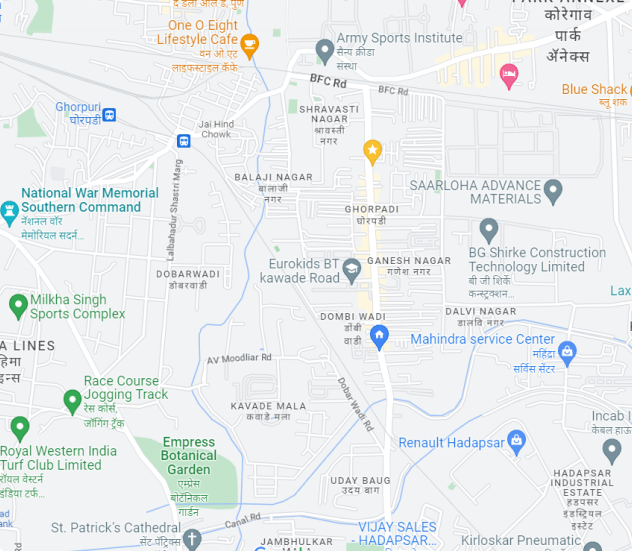
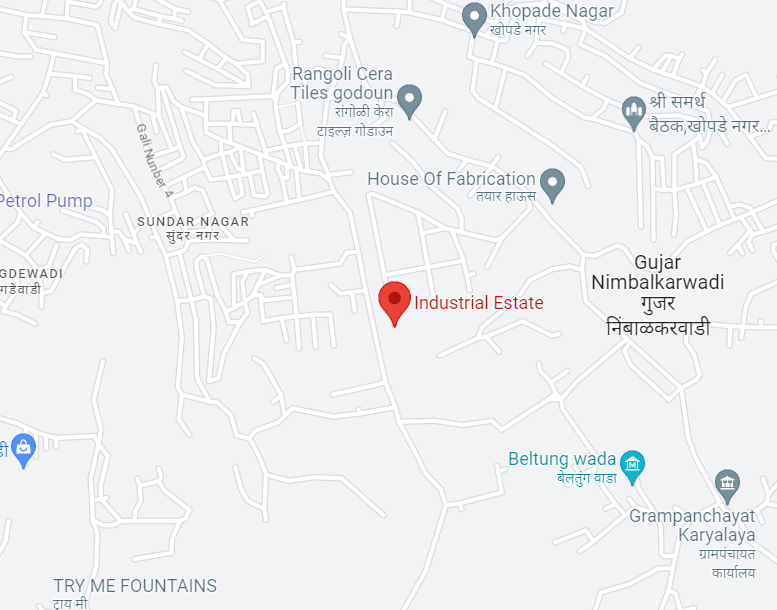
second commit

diff --git a/index.css b/index.css
@@ -1,1 +1,1 @@
-*{box-sizing:border-box;padding:0;margin:0;font-family:"Raleway",sans-serif}.container{width:80%;margin:auto}.contact-btn{padding:12px 30px;border-radius:5px;border:none;outline:none;font-size:16px;background-color:#ffcaa3;font-weight:bold}nav{padding:16px;display:flex;justify-content:space-around;align-items:center;position:fixed;width:100%;z-index:99999}nav .logo{color:#fff;display:flex;align-items:center}nav .logo img{height:36px;margin-right:10px}nav .logo p{font-size:16px;font-weight:bold}nav .nav-links{display:flex;width:40%;justify-content:space-around;align-items:center;list-style:none}nav .nav-links a{color:#fff;text-decoration:none;font-size:16px;font-weight:bold}nav .burger{display:none}nav .burger div{margin:8px 0px;border-radius:5px;width:35px;height:3px;background:#fff}.hero{height:100vh;width:100%;background:url(./assets/hero-bg.png);background-size:cover;background-repeat:no-repeat;background-position:center}.hero .container{color:#fff;padding:10% 0%}.hero .container h1{font-size:72px}.hero .container p{width:50%;line-height:150%;text-align:justify;font-size:14px;margin-bottom:24px}.hero .container .proof{margin-top:36px}.hero .hero-date{font-family:"Montserrat",sans-serif}.clients{padding:100px 0px}.clients h1{font-size:72px;font-weight:900}.clients .container{margin-top:40px;display:flex;align-items:center;justify-content:space-between}.clients .container img{height:80px}.clients .head{display:block}.products{padding:100px 0px;background:#f9f9f9}.products h1{font-size:72px;font-weight:900}.products .container{display:grid;grid-template-columns:1fr 1fr}.products .container .card-container{padding:16px}.products .container .card-container .card{color:#fff;height:500px;padding:36px;position:relative}.products .container .card-container .card p{margin-top:20px;text-align:justify;width:45%}.contact{background-color:#000;padding:100px 0px}.contact h1{font-size:72px;font-weight:900;color:#fff}.contact .contact-box{display:flex;align-items:center}.contact .contact-box .image img{height:100%;-o-object-fit:cover;object-fit:cover}.contact .contact-box .form{width:100%;height:600px;padding:72px 5%}.contact .contact-box .form .field{display:flex;flex-direction:column;margin-bottom:32px}.contact .contact-box .form .field label{color:#fff;margin-bottom:4px;font-weight:700}.contact .contact-box .form .field input{padding:10px;outline:none;border:none}.contact .contact-box .form .field textarea{padding:10px;outline:none;border:none;font-size:14px}.about{padding:100px 0px}.about h1{font-size:72px;font-weight:900}.about .about-us{display:flex;align-items:center;margin-top:24px}.about .about-us .info{padding:32px}.about .about-us .info p{text-align:justify;line-height:150%;font-weight:600}@media screen and (max-width: 991px){body{overflow-x:hidden}nav{position:relative;background:#1e1e1e;height:10vh;z-index:1}nav .logo p{display:none}nav .nav-links{background:#1e1e1e;position:absolute;right:0px;top:8vh;width:50%;height:92vh;flex-direction:column;transform:translateX(100%);transition:all .5s ease}nav .nav-links li{opacity:0}nav .nav-active{transform:translateX(0%)}nav .burger{display:block;cursor:pointer}nav .burger div{transition:all .5s ease}@keyframes navlinksFade{from{opacity:0;transform:translateX(50px)}to{opacity:1;transform:translateX(0px)}}nav .toggle .line1{transform:rotate(-45deg) translate(-5px, 10px)}nav .toggle .line2{opacity:0}nav .toggle .line3{transform:rotate(45deg) translate(-5px, -10px)}.hero{height:100%}.hero .container{width:95%}.hero .container h1{font-size:32px}.hero .container p{margin-top:20px;font-size:14px;width:100%}.products .container{grid-template-columns:1fr;width:95%}.products .container .card-container .card{height:400px;background-size:cover;background-repeat:no-repeat}.products .container .card-container .card p{width:100%}}
+*{box-sizing:border-box;padding:0;margin:0;font-family:"Raleway",sans-serif}.container{width:80%;margin:auto}.contact-btn{padding:12px 30px;border-radius:5px;border:none;outline:none;font-size:16px;background-color:#ffcaa3;font-weight:bold}nav{padding:16px;display:flex;justify-content:space-around;align-items:center;position:fixed;width:100%;z-index:99999}nav .logo{color:#fff;display:flex;align-items:center}nav .logo img{height:36px;margin-right:10px}nav .logo p{font-size:16px;font-weight:bold}nav .nav-links{display:flex;width:40%;justify-content:space-around;align-items:center;list-style:none}nav .nav-links a{color:#fff;text-decoration:none;font-size:16px;font-weight:bold}nav .burger{display:none}nav .burger div{margin:8px 0px;border-radius:5px;width:35px;height:3px;background:#fff}.hero{height:100vh;width:100%;background:url(./assets/hero-bg.png);background-size:cover;background-repeat:no-repeat;background-position:center}.hero .container{color:#fff;padding:10% 0%}.hero .container h1{font-size:72px}.hero .container p{width:50%;line-height:150%;text-align:justify;font-size:14px;margin-bottom:24px}.hero .container .proof{margin-top:36px}.hero .hero-date{font-family:"Montserrat",sans-serif}.clients{padding:100px 0px}.clients h1{font-size:72px;font-weight:900}.clients .container{margin-top:40px;display:flex;align-items:center;justify-content:space-between}.clients .container img{height:80px}.clients .head{display:block}.products{padding:100px 0px;background:#f9f9f9}.products h1{font-size:72px;font-weight:900}.products .container{display:grid;grid-template-columns:1fr 1fr}.products .container .card-container{padding:16px}.products .container .card-container .card{color:#fff;height:500px;padding:36px;position:relative}.products .container .card-container .card p{margin-top:20px;text-align:justify;width:45%}.contact{background-color:#000;padding:100px 0px}.contact h1{font-size:72px;font-weight:900;color:#fff}.contact .contact-box{display:flex;align-items:center}.contact .contact-box .image img{height:80%;width:90%;-o-object-fit:cover;object-fit:cover}.contact .contact-box .image p{color:#fff;margin-bottom:24px}.contact .contact-box .form{width:100%;height:600px;padding:72px 5%}.contact .contact-box .form .field{display:flex;flex-direction:column;margin-bottom:32px}.contact .contact-box .form .field label{color:#fff;margin-bottom:4px;font-weight:700}.contact .contact-box .form .field input{padding:10px;outline:none;border:none}.contact .contact-box .form .field textarea{padding:10px;outline:none;border:none;font-size:14px}.about{padding:100px 0px}.about h1{font-size:72px;font-weight:900}.about .about-us{display:flex;align-items:center;margin-top:24px}.about .about-us .info{padding:32px}.about .about-us .info p{text-align:justify;line-height:150%;font-weight:600}@media screen and (max-width: 991px){body{overflow-x:hidden}nav{position:relative;background:#1e1e1e;height:10vh;z-index:1}nav .logo p{display:none}nav .nav-links{display:none;background:#1e1e1e;position:absolute;right:0px;top:8vh;width:50%;height:92vh;flex-direction:column;transform:translateX(100%);transition:all .5s ease}nav .nav-links li{opacity:0}nav .nav-active{transform:translateX(0%);display:flex}nav .burger{display:block;cursor:pointer}nav .burger div{transition:all .5s ease}@keyframes navlinksFade{from{opacity:0;transform:translateX(50px)}to{opacity:1;transform:translateX(0px)}}nav .toggle .line1{transform:rotate(-45deg) translate(-5px, 10px)}nav .toggle .line2{opacity:0}nav .toggle .line3{transform:rotate(45deg) translate(-5px, -10px)}.hero{height:100%}.hero .container{width:95%}.hero .container h1{font-size:32px}.hero .container p{margin-top:20px;font-size:14px;width:100%}.clients{padding:100px 0px}.clients h1{font-size:72px;font-weight:900}.clients .container{margin-top:40px;display:flex;flex-wrap:wrap;align-items:center;justify-content:space-between}.clients .container img{height:100px;width:200px;margin-bottom:24px;-o-object-fit:contain;object-fit:contain}.clients .head{display:block}.products .container{grid-template-columns:1fr;width:95%}.products .container .card-container .card{height:400px;background-size:cover;background-repeat:no-repeat}.products .container .card-container .card p{width:100%}.about{padding:100px 0px}.about h1{font-size:72px;font-weight:900}.about .about-us{display:flex;flex-direction:column;align-items:center;margin-top:24px}.about .about-us img{width:80%}.about .about-us .info{padding:32px}.about .about-us .info p{text-align:justify;line-height:150%;font-weight:600}.contact{background-color:#000;padding:100px 0px}.contact h1{font-size:72px;font-weight:900;color:#fff}.contact .contact-box{display:flex;flex-direction:column;align-items:center}.contact .contact-box .image{width:100%;display:flex;flex-direction:column}.contact .contact-box .image img{display:block;height:20%;-o-object-fit:cover;object-fit:cover}.contact .contact-box .form{width:100%;height:600px;padding:72px 5%}.contact .contact-box .form .field{display:flex;flex-direction:column;margin-bottom:32px}.contact .contact-box .form .field label{color:#fff;margin-bottom:4px;font-weight:700}.contact .contact-box .form .field input{padding:10px;outline:none;border:none}.contact .contact-box .form .field textarea{padding:10px;outline:none;border:none;font-size:14px}}

diff --git a/index.scss b/index.scss
@@ -45,6 +45,7 @@ nav{
         justify-content: space-around;
         align-items: center;
         list-style: none;
+       
         a{
             color: white;
             text-decoration: none;
@@ -159,8 +160,13 @@ nav{
     
         .image{
             img{
-                height: 100%;
+                height: 80%;
+                width: 90%;
                 object-fit: cover;
+            }
+            p{
+                color: white;
+                margin-bottom: 24px;
             }
           
         }
@@ -228,12 +234,14 @@ nav{
         background: rgb(30, 30, 30);
         height: 10vh;
         z-index: 1;
+        
         .logo{
             p{
                 display: none;
             }
         }
         .nav-links{
+            display: none;
             background: rgb(30, 30, 30);
             position: absolute;
             right: 0px;
@@ -243,12 +251,14 @@ nav{
             flex-direction: column;
             transform: translateX(100%);
             transition: all 0.5s ease;
+            
             li{
                 opacity: 0;
             }
         }
         .nav-active{
             transform: translateX(0%);
+            display: flex;
         }
         .burger{
             display: block;
@@ -294,6 +304,30 @@ nav{
             }
         }
     }
+    .clients{
+        padding: 100px 0px;
+        
+        h1{
+            font-size: 72px;
+            font-weight: 900;
+        }
+        .container{
+            margin-top: 40px;
+            display: flex;
+            flex-wrap: wrap;
+            align-items: center;
+            justify-content: space-between;
+            img{
+                height: 100px;
+                width: 200px;
+                margin-bottom: 24px;
+                object-fit: contain;
+            }
+        }
+        .head{
+            display: block;
+        }
+    }
     .products{
        
         .container{
@@ -310,5 +344,86 @@ nav{
                 }
             }
         }
+    }
+    .about{
+        padding: 100px 0px;
+        h1{
+            font-size: 72px;
+            font-weight: 900;
+        }
+        .about-us{
+            display: flex;
+            flex-direction: column;
+            align-items: center;
+            margin-top: 24px;
+            img{
+                width: 80%;
+            }
+            .info{
+                padding: 32px;
+    
+                p{
+                    text-align: justify;
+                    line-height: 150%;
+                    font-weight: 600;
+                }
+            }
+        }
+    }
+    .contact{
+        background-color: #000;
+        padding: 100px 0px;
+        h1{
+            font-size: 72px;
+            font-weight: 900;
+            color: #fff;
+        }
+        .contact-box{
+            display: flex;
+            flex-direction: column;
+            align-items: center;
+            
+            .image{
+                width: 100%;
+                display: flex;
+                flex-direction: column;
+                img{
+                    display: block;
+                    height: 20%;
+                    object-fit: cover;
+                }
+              
+            }
+            .form{
+                width: 100%;
+                height: 600px;
+                padding: 72px 5%;
+                
+                .field{
+                    display: flex;
+                    flex-direction: column;
+                    margin-bottom: 32px;
+                    label{
+                        color: white;
+                        margin-bottom: 4px;
+                        font-weight: 700;
+                    }
+                    input{
+                        padding: 10px;
+                        outline: none;
+                        border: none;
+                    }
+                    textarea{
+                        padding: 10px;
+                        outline: none;
+                        border: none;
+                        font-size: 14px;
+                    }
+                }
+            }
+            
+        }
+       
+      
     }
 }

diff --git a/index.html b/index.html
@@ -177,7 +177,13 @@
                 <input type="submit" value="Send" class="contact-btn" style="width: 100%;" >
             </form>
             <div class="image">
-                <img src="./assets/map.png" alt="">
+                <p style="margin-bottom: 8px;">Address: </p >
+                   <p>Plot No 22, Sai Industrial Estate, <br>
+                     Gujarwadi road, Mangdewadi, katraj , Pune 46
+                </p>
+                
+                    <img src="./assets/map.png" alt="">
+                
             </div>
            </div>
             
